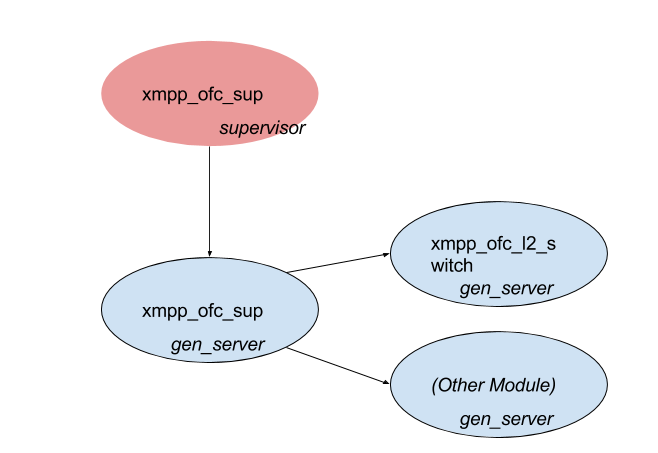
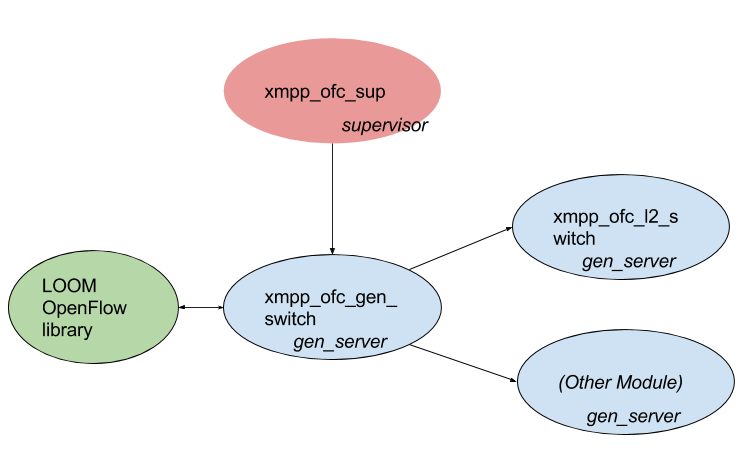
Describe xmpp_ofc_gen_switch

diff --git a/README.md b/README.md
@@ -33,3 +33,69 @@ $ rebar3 compile
 
 ![alt](img/arch.png)
 
+### xmpp_ofc_gen_switch
+
+#### API
+
+```erlang
+
+%% starts the process
+start_link() -> {ok, pid()} 
+
+%% called when a new switch with given DatapathId connects
+open_connection(DatapathId) -> ok
+
+%% called when a switch with given DatapathId disconnects
+terminate_connection(DatapathId) -> ok.
+
+%% called when there's a message from a switch that that some module subscribed to
+handle_message(DatapathId, Msg) -> ok.
+```
+
+#### Functionalities
+
+* Starts the modules that will implement the logic
+* Keeps the runtime configuration for the switches (enabled modules, pid's under witch they run, subscriptions)
+* References the LOOM libraries for handling OpenFlow messages
+```erlang
+subscribe(DatapathId, MsgTypes) ->
+    lists:foreach(
+      fun(MsgType) ->
+              ofs_handler:subscribe(DatapathId,xmpp_ofc_ofsh, MsgType) 
+      end, MsgTypes).
+
+....
+
+unsubscribe(DatapathId, MsgTypes) ->
+    lists:foreach(
+      fun(MsgType) ->
+              case ofs_handler:unsubscribe(DatapathId, xmpp_ofc_ofsh,
+                                           MsgType) of
+                  ok ->
+                      ok;
+                  no_handler ->
+                      ok
+              end
+              end, MsgTypes).
+
+....
+of_send(DatapathId, Messages) ->
+    exometer:update(?EXO_OF_MESSAGES_SENT, 1),
+    [ofs_handler:send(DatapathId, M) || M <- Messages].
+```
+
+* When a message comes from a switch it passes it to the enabled moduels based on the subcriptions:
+
+```erlang
+handle_message(MsgType, Msg, ModsConfig) ->
+    exometer:update(?EXO_OF_MESSAGES_RECEIVED, 1),
+    lists:foldl(fun({Mod, Pid, MsgTypes}, Acc) ->
+                        case lists:member(MsgType, MsgTypes) of
+                            true ->
+                                Mod:handle_message(Pid, Msg, Acc);
+                            false ->
+                                Acc
+                        end
+                end, [], ModsConfig).
+
+```
